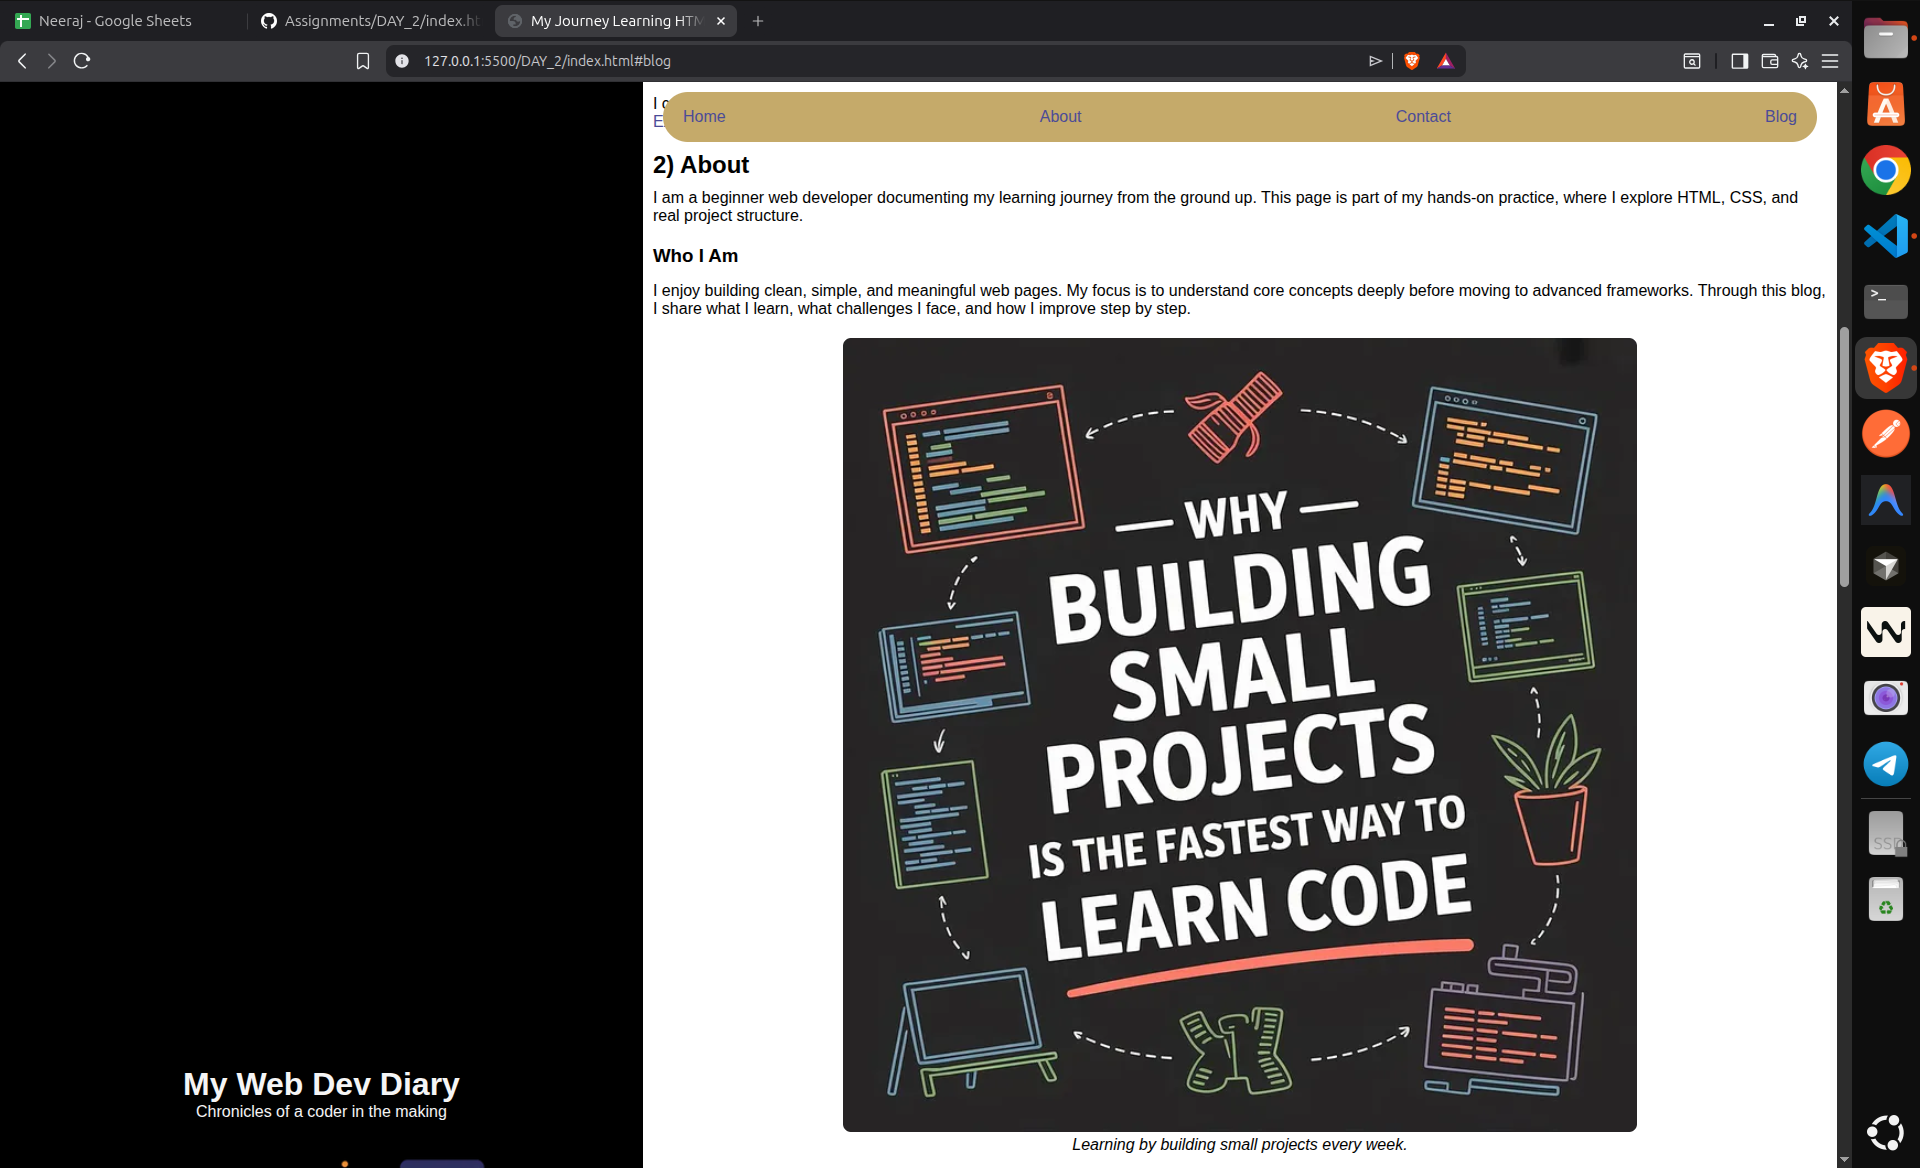
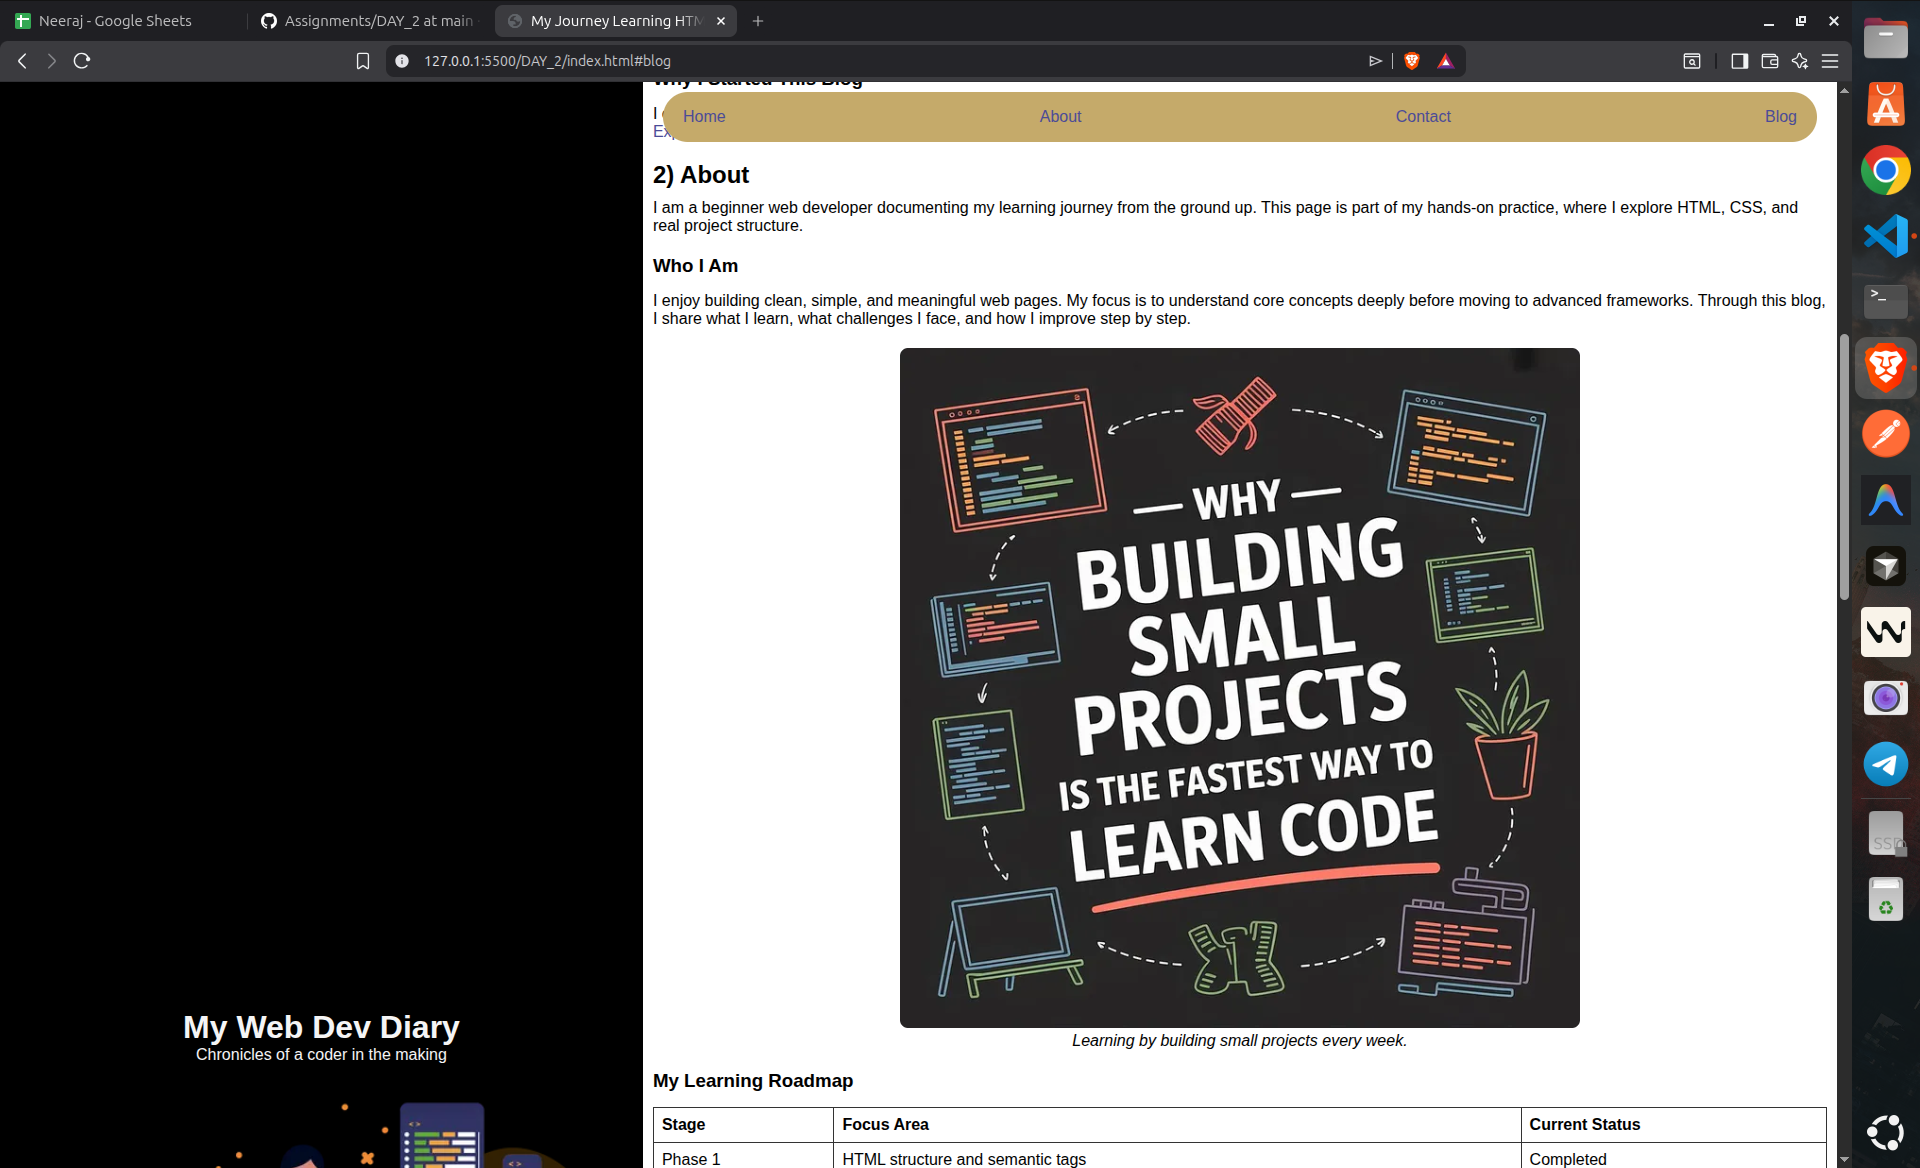
update images

Changed region(s): [[0.3438, 0.0, 1.0, 1.0], [0.0938, 0.863, 0.3125, 1.0], [0.2188, 0.0, 0.25, 0.0308]]

diff --git a/DAY_2/index.html b/DAY_2/index.html
@@ -119,7 +119,9 @@
                     step by step.
                 </p>
 
-                <img style="display:block; width:60%; margin:40px auto;" src="https://www.raspberrypi.org/app/uploads/2022/01/48035309701_7a5bae0d61_k-500x333.jpg" alt="coding setup" width="100%">
+                <div class="image-wrapper">
+                    <img style="display:block; width:60%; margin:40px auto;" src="https://www.raspberrypi.org/app/uploads/2022/01/48035309701_7a5bae0d61_k-500x333.jpg" alt="coding setup" width="100%">
+                </div>
                 <h3>What You Will Find Here</h3>
                 <ul>
                     <li>Beginner-friendly HTML & CSS concepts</li>
@@ -156,7 +158,7 @@
 
                 <div class="img-box" style="text-align:center; margin:20px;">
                     <div class="image-wrapper">
-                        <img src="https://miro.medium.com/v2/resize:fit:720/format:webp/1*Naepf3L0xG0zxD8SFPo7FA.jpeg"  alt="Developer working"  style="width:70%; border-radius:8px;"> <br>
+                        <img src="https://miro.medium.com/v2/resize:fit:720/format:webp/1*Naepf3L0xG0zxD8SFPo7FA.jpeg"  alt="Developer working"  style="width:60%; border-radius:8px;"> <br>
                     </div>
                     <i style="margin-top: 10px;">Learning by building small projects every week.</i>
                 </div>
